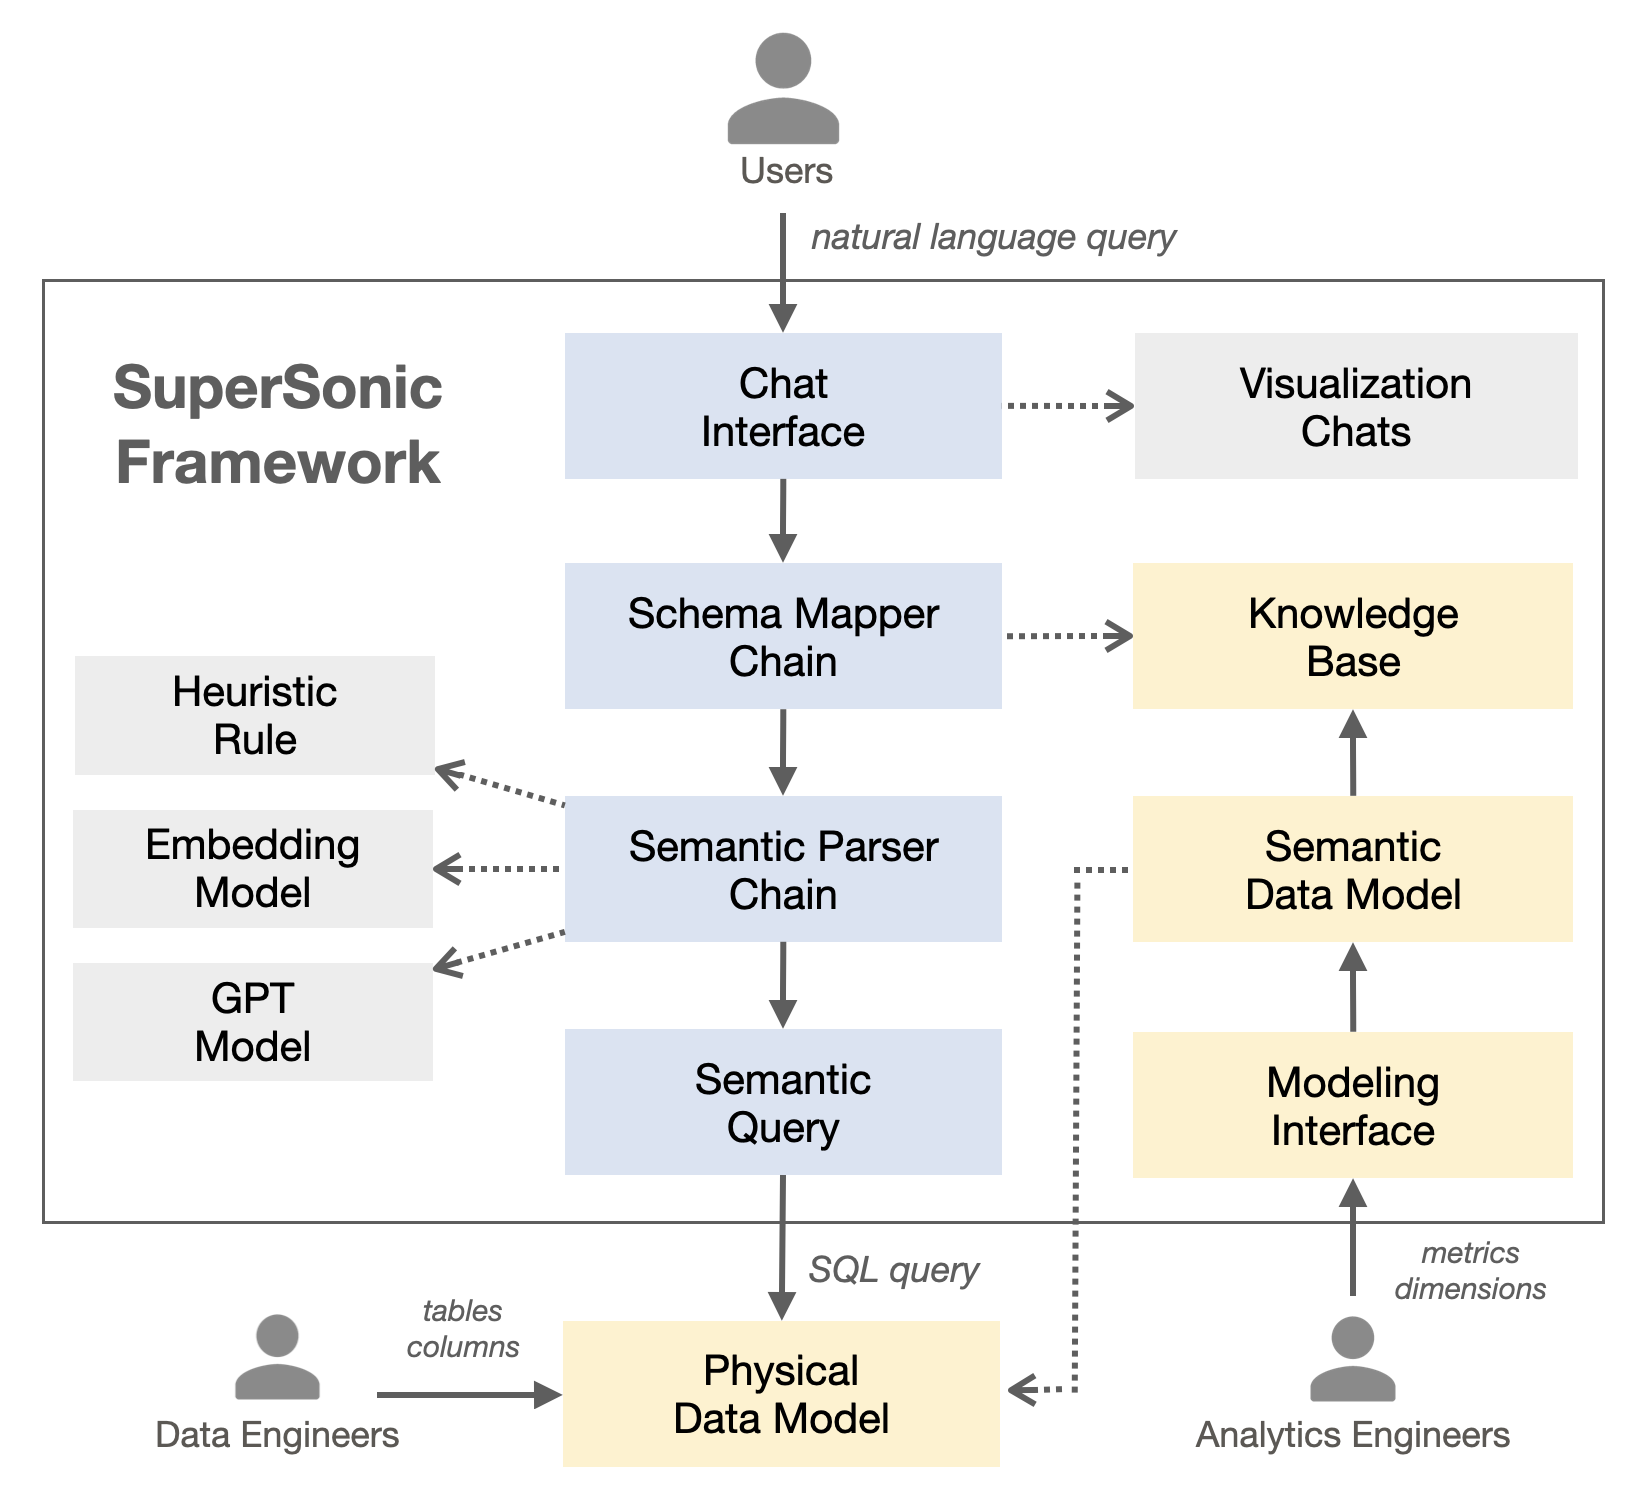
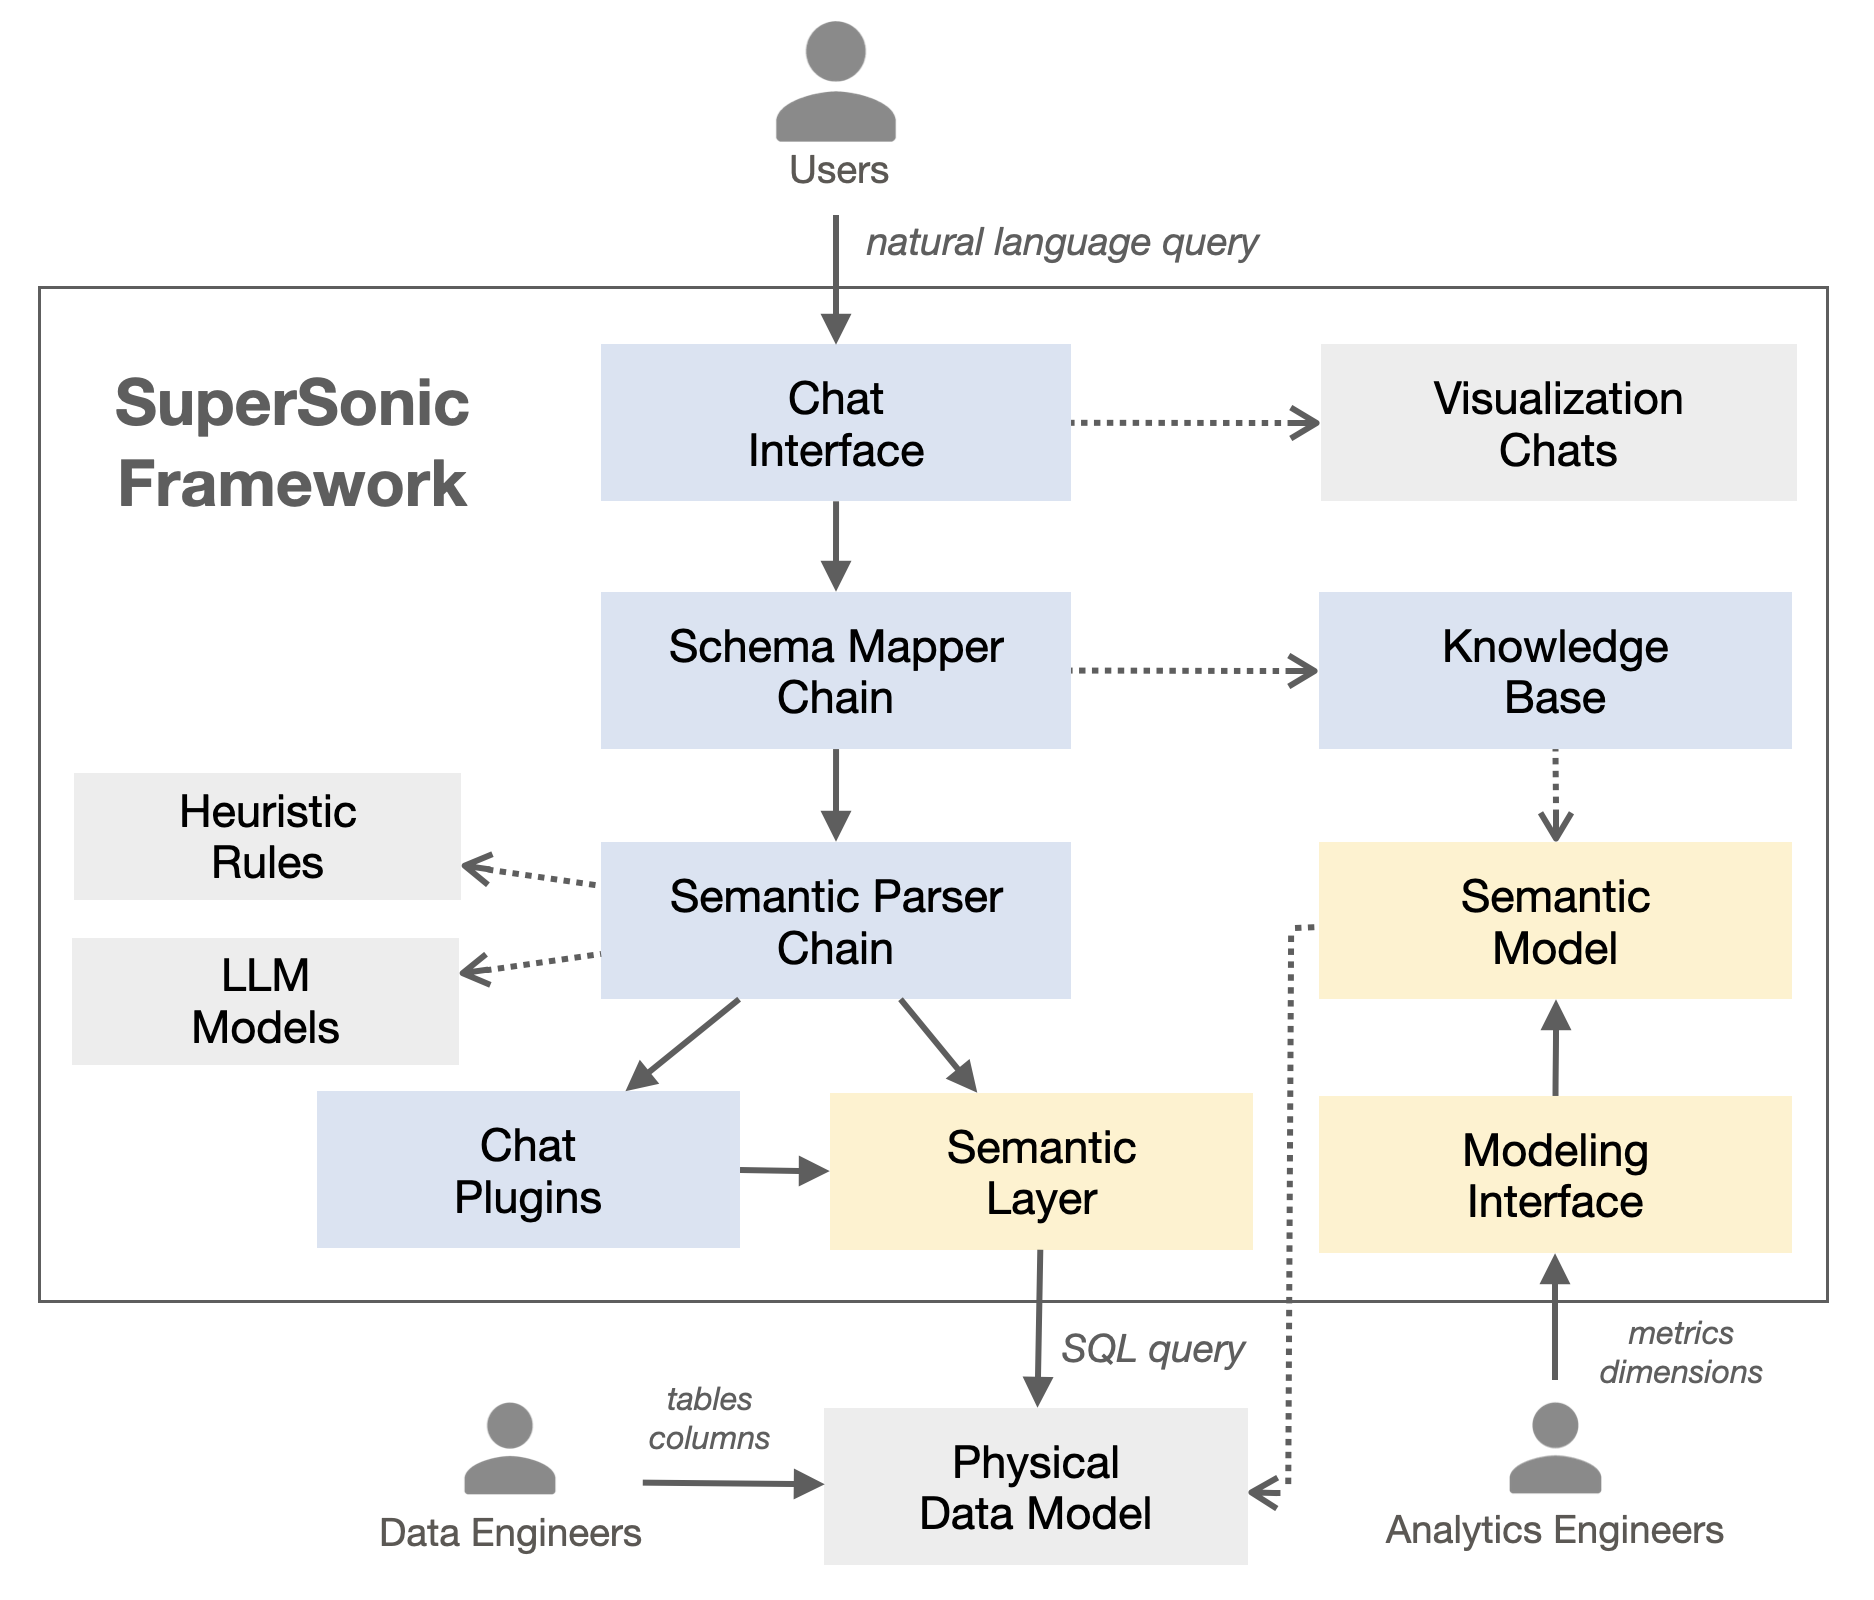
[improvement][docs]update README and architecture diagram

diff --git a/README.md b/README.md
@@ -2,7 +2,7 @@ English | [中文](README_CN.md)
 
 # SuperSonic (超音数)
 
-**SuperSonic is an out-of-the-box yet highly extensible framework for building a data chatbot**. SuperSonic provides a chat interface that empowers users to query data using natural language and visualize the results with suitable charts. To enable such experience, the only thing necessary is to build logical semantic models (definition of metrics/dimensions/entities, along with their meaning, context and relationships) on top of physical data models, and no data modification or copying is required. Meanwhile, SuperSonic is designed to be pluggable, allowing new functionalities to be added through plugins and core components to be integrated with other systems.
+**SuperSonic is an out-of-the-box yet highly extensible framework for building a data chatbot**. SuperSonic provides a chat interface that empowers users to query data using natural language and visualize the results with suitable charts. To enable such experience, the only thing necessary is to build logical semantic models (definition of metrics/dimensions/entities, along with their meaning, context and relationships) on top of physical data models, and no data modification or copying is required. Meanwhile, SuperSonic is designed to be pluggable, allowing new tools to be added through plugins.
 
 <img src="./docs/images/supersonic_demo.gif" height="100%" width="100%" align="center"/>
 
@@ -10,19 +10,20 @@ English | [中文](README_CN.md)
 
 The emergence of Large Language Model (LLM) like ChatGPT is reshaping the way information is retrieved. In the field of data analytics, both academia and industry are primarily focused on leveraging LLM to convert natural language queries into SQL queries. While some works show promising results, they are still not applicable to real-world scenarios.
 
-From our perspective, the key to filling the real-world gap lies in two aspects: 
-1. Utilize a combination of rule-based and model-based semantic parsers to deal with different scenarios.
+From our perspective, the key to filling the real-world gap lies in three aspects: 
+1. Utilize a combination of rule-based and LLM-based semantic parsers to deal with different scenarios.
 2. Introduce a semantic model layer encapsulating the underlying data complexity(joins, formulas, etc) to simplify semantic parsing.
+3. Integrate third-party plugins to augment semantic parsing capabilities or complement custom functionalities.
 
 With these ideas in mind, we develop SuperSonic as a practical reference implementation and use it to power our real-world products. Additionally, to facilitate further development of data chatbot, we decide to open source SuperSonic as an extensible framework.
 
 ## Out-of-the-box Features
 
-- Built-in graphical interface for business users to enter data queries 
-- Built-in graphical interface for analytics engineers to manage semantic models
-- Support input auto-completion as well as query recommendation
-- Support multi-turn conversation and history context management 
-- Support three-level permission control: domain-level, column-level and row-level 
+- Built-in chat UI for business users to enter natural language queries and answer results with appropriate visualization charts. 
+- Built-in modelling UI for analytics engineers to manage semantic models. The configurations related to access permission and chat conversation can also be set on the UI.
+- Support input auto-completion as well as query recommendation.
+- Support multi-turn conversation and history context management. 
+- Support four-level permission control: domain-level, model-level, column-level and row-level.
 
 ## Extensible Components
 
@@ -30,15 +31,13 @@ The high-level architecture and main process flow is shown in below diagram:
 
 <img src="./docs/images/supersonic_components.png" height="70%" width="70%" align="center"/> 
 
-- **Chat Interface:** accepts natural language queries and answer results with appropriate visualization charts. It supports input auto-completion as well as multi-turn conversation.
-
-- **Modeling Interface:** empowers analytics engineers to visually define and maintain semantic models. The configurations related to access permission and chat conversation can also be set on the UI.
-
 - **Schema Mapper Chain:** identifies references to schema elements(metrics/dimensions/entities/values) in user queries. It matches the query text against a knowledge base constructed from the semantic models.
 
-- **Semantic Parser Chain:** understands user queries and extract semantic information. It consists of a combination of rule-based and model-based parsers, each of which deals with specific scenarios.
+- **Semantic Parser Chain:** understands user queries and extract semantic information. It consists of a combination of rule-based and LLM-based parsers, each of which deals with specific scenarios.
 
-- **Semantic Query:** performs execution according to extracted semantic information. It generates SQL queries and executes them against physical data models.
+- **Semantic Layer:** performs execution according to extracted semantic information. It generates SQL queries and executes them against physical data models.
+
+- **Chat Plugins**: perform custom execution given the results of schema mapping and semantic parsing. It would optionally resort to semantic layer to query semantic models.
 
 ## Quick Demo
 

diff --git a/README_CN.md b/README_CN.md
@@ -8,19 +8,20 @@
 
 大型语言模型（LLMs）如ChatGPT的出现正在重塑信息检索的方式。在数据分析领域，学术界和工业界主要关注利用深度学习模型将自然语言查询转换为SQL查询。虽然一些工作显示出有前景的结果，但它们还并不适用于实际场景。
 
-在我们看来，为了在实际场景发挥价值，有两个关键点：
+在我们看来，为了在实际场景发挥价值，有三个关键点：
 1. 将基于规则和基于模型的语义解析器相结合，发挥各自优势，以便处理不同的场景。
 2. 引入语义模型层来封装数据底层的复杂性（关联、公式等），从而简化语义解析的求解空间。
+3. 整合第三方插件用于增强语义解析能力，或者扩充自定义功能。
 
 为了验证上述想法，我们开发了超音数项目，并将其应用在实际的内部产品中。与此同时，我们将超音数作为一个可扩展的框架开源，希望能够促进数据问答对话领域的进一步发展。
 
 ## 开箱即用的特性
 
-- 内置图形界面以便业务用户输入数据查询。
-- 内置图形界面以便分析工程师管理语义模型。
+- 内置的对话图形界面，使用户能够通过自然语言问询，并最终选择合适的可视化图表呈现结果。
+- 内置的建模图形界面，使分析工程师能够通过可视化方式定义和维护语义模型，与访问权限和聊天对话相关的配置也可以在用户界面上设置。
 - 支持文本输入的联想和查询问题的推荐。
 - 支持多轮对话，根据语境自动切换上下文。
-- 支持三级权限控制：主题域级、列级、行级。
+- 支持四级权限控制：主题域级、模型级、列级及行级。
 
 ## 易于扩展的组件
 
@@ -28,15 +29,13 @@
 
 <img src="./docs/images/supersonic_components.png" height="70%" width="70%" align="center"/> 
 
-- **问答对话界面(chat interface)**：接受用户查询并选择合适的可视化图表呈现结果，支持输入联想和多轮对话。
-
-- **语义建模界面(modeling interface)**：使分析工程师能够通过可视化方式定义和维护语义模型，与访问权限和聊天对话相关的配置也可以在用户界面上设置。
-
 - **模式映射器(schema mapper chain)**：基于语义模型构建知识库，然后将自然语言文本在知识库中进行匹配，为后续的语义解析提供相关信息。
 
 - **语义解析器(semantic parser chain)**：理解用户查询并抽取语义信息，其由一组基于规则和基于模型的解析器组成，每个解析器可应对不同的特定场景。
 
-- **语义查询(semantic query)**: 根据语义信息生成物理SQL执行查询。
+- **语义层(semantic layer)**: 根据语义信息生成物理SQL执行查询。
+
+- **问答插件(chat plugins)**：基于模式映射和语义解析的结果，执行自定义的操作，同时可以选择利用语义层来查询语义模型。
 
 ## 快速体验
 
